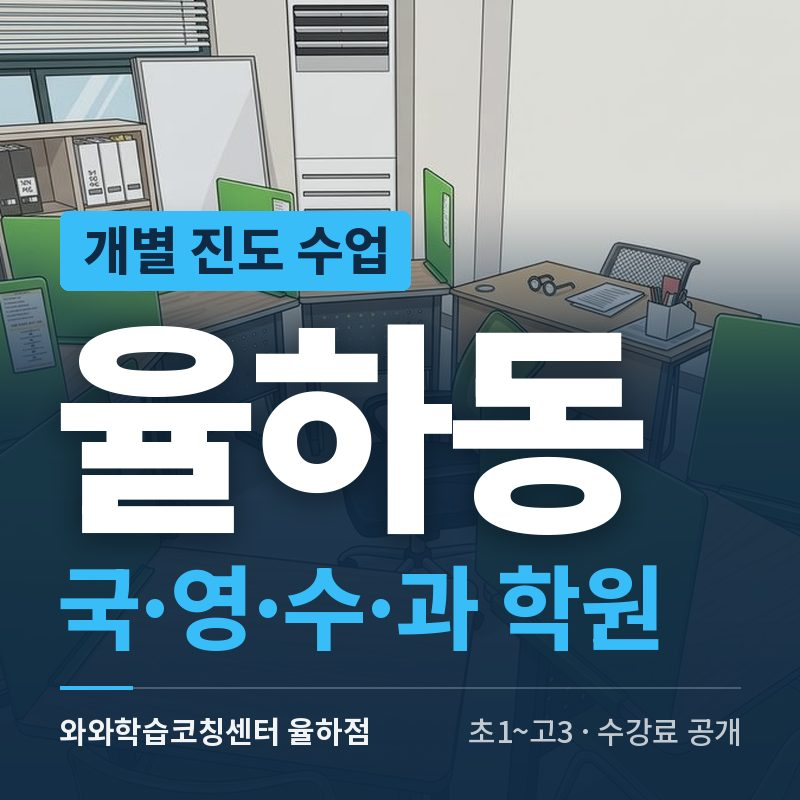
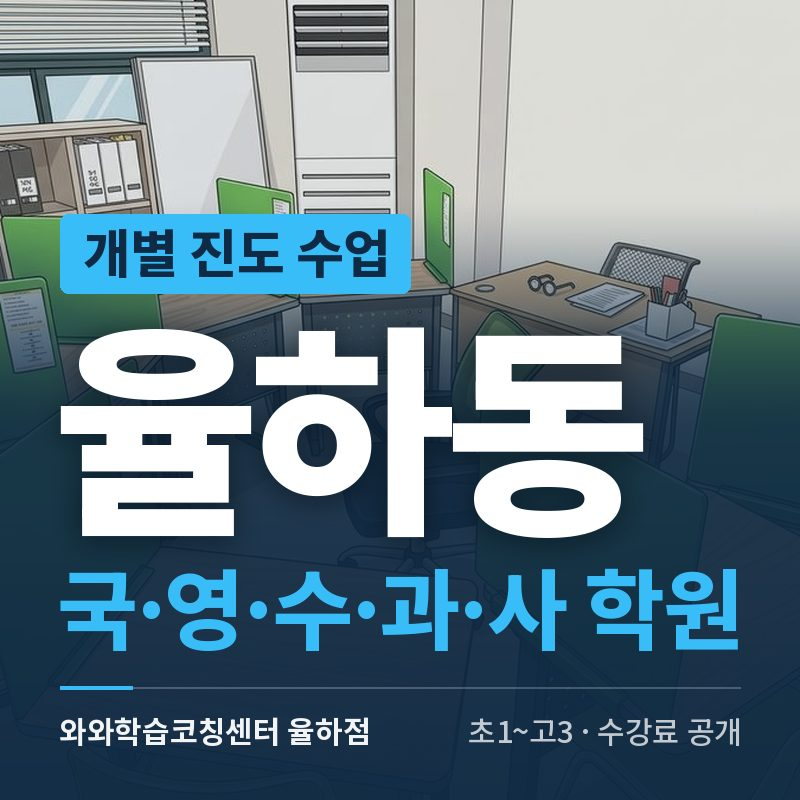
동 허브 17장 '수강 가능 과목' 줄을 기준본 지점 과목으로 맞춤 (11-10 점검 wawa-A-1)
10-27 반영 때 바뀐 지점의 허브만 고쳐 나머지 17장은 Init 때 값이 남아 있었다.
같은 페이지의 과목 바로가기·상담 폼 과목과 달랐고, 반여동(사회)·가경동(과학)·
성남동(국어)은 지점이 열지 않는 과목까지 적었다.

- scripts/hub_subjects_2026-11-10.cjs: 그 동 지점(기준본 wstudycenter.com
  data/branches.json) 과목 합집합으로 과목 줄 한 줄만 바꾼다. 제목·h1·설명문은
  그대로(10-02 '제목은 그대로'). 허브에 실린 지점과 기준본 같은 동 지점이
  다르면 건너뛴다(17장 모두 일치).
- 바뀐 17장만 page-updated data-iso·최종 업데이트와 sitemap lastmod 를 11-10 으로.
- 썸네일 시험 배너 과목은 '기준본 ∩ 과목 줄'이라 node _thumb_test.js plan 으로
  다시 봤고 시험군 3장(성사동·율하동·창곡동)이 늘어난 과목으로 바뀌어
  apply(alt)·배너 3장을 다시 그렸다(배정은 그대로, 같은 스크립트로 다른 배너를
  다시 그리면 바이트까지 같은 것 확인).

diff --git a/gyeonggi/seongnam/dong/창곡동/index.html b/gyeonggi/seongnam/dong/창곡동/index.html
@@ -148,7 +148,7 @@
         <div class="info-icon">📚</div>
         <div class="info-content">
           <div class="info-label">수강 가능 과목</div>
-          <div class="info-value">영어 · 수학 · 과학</div>
+          <div class="info-value">국어 · 영어 · 수학 · 과학</div>
         </div>
       </div>
       <div class="school-section"><div class="school-section-title">🏫 창곡동 인근 학교</div><div class="school-group"><span class="school-group-label elem">초등</span><span class="school-list">고운초, 송례초, 위례중앙초, 위례초, 위례푸른초</span></div><div class="school-group"><span class="school-group-label mid">중등</span><span class="school-list">송례중, 위례중, 위례중앙중, 위례한빛중</span></div><div class="school-group"><span class="school-group-label high">고등</span><span class="school-list">문현고, 복정고, 위례고, 위례한빛고</span></div></div>
@@ -214,7 +214,7 @@
   </table><div class="fee-legal"><span><b>위례창곡점</b> 위례창곡점와와학습코칭학원(성남교육지원청 등록 제6458호)</span><span>1회 수업 시간: 초등 90분, 중등 90분, 고등 90분</span><span><a class="fee-doc-link" href="https://drive.google.com/file/d/1ILLc1mkd9i-OS17T42-VCSh-QXRhYXNw/view?usp=sharing" target="_blank" rel="noopener" style="color:#0369A1;font-weight:700;text-decoration:none;">교습비 공시 자료</a> · <a href="../../wilyechanggog/#fee" style="color:#0369A1;font-weight:700;text-decoration:none;">위례창곡점 수강료 안내</a></span></div></div></section>
 
 <!-- 하단 CTA: 한 번 더 -->
-<!-- WAWA_ILLUST_START --><section style="max-width:960px;margin:0 auto;padding:8px 20px 26px;"><img src="https://wcoachingcenter.com/assets/banner/gyeonggi-seongnam-%EC%B0%BD%EA%B3%A1%EB%8F%99.jpg" alt="창곡동 영어·수학·과학 학원 와와학습코칭센터 위례점 개별 진도 수업 안내 (초3~고2 · 수강료 공개)" width="800" height="800" loading="lazy" style="width:100%;max-width:420px;border-radius:14px;display:block;margin:0 auto;"></section><!-- WAWA_ILLUST_END -->
+<!-- WAWA_ILLUST_START --><section style="max-width:960px;margin:0 auto;padding:8px 20px 26px;"><img src="https://wcoachingcenter.com/assets/banner/gyeonggi-seongnam-%EC%B0%BD%EA%B3%A1%EB%8F%99.jpg" alt="창곡동 국어·영어·수학·과학 학원 와와학습코칭센터 위례점 개별 진도 수업 안내 (초3~고2 · 수강료 공개)" width="800" height="800" loading="lazy" style="width:100%;max-width:420px;border-radius:14px;display:block;margin:0 auto;"></section><!-- WAWA_ILLUST_END -->
 <section style="background:linear-gradient(135deg,#0369A1,#075985);padding:40px 20px;text-align:center;color:#fff;">
   <h3 style="font-size:22px;font-weight:900;margin-bottom:10px;text-wrap:balance;word-break:keep-all;">창곡동에서 와와학습코칭센터를 만나보세요</h3>
   <p style="font-size:14px;opacity:0.9;margin-bottom:20px;text-wrap:balance;word-break:keep-all;">학습 진단부터 학교 시험 대비까지 무료 상담으로 안내해 드립니다.</p>
@@ -240,7 +240,7 @@
   <a href="/reviews/" style="color:rgba(255,255,255,0.85);font-weight:700;">⭐ 학생·학부모 후기</a> &nbsp;|&nbsp; <a href="tel:010-4864-5345" style="color:rgba(255,255,255,0.85);font-weight:700;">📞 전화 문의하기</a><br>
   <span style="font-size:11px;color:rgba(255,255,255,0.55);">광고전화는 정중히 사절합니다. &nbsp;|&nbsp; 그림 출처: 와와학습코칭센터, AI로 이미지 생성</span>
   <div class="footer-privacy" style="margin-top:6px;font-size:12px;"><a href="/privacy/" style="color:rgba(255,255,255,0.85);font-weight:700;">개인정보처리방침</a></div>
-  <div class="page-updated" data-iso="2026-09-02" style="font-size:11px;color:rgba(255,255,255,0.45);margin-top:8px;">📅 최종 업데이트: 2026.09.02</div>
+  <div class="page-updated" data-iso="2026-11-10" style="font-size:11px;color:rgba(255,255,255,0.45);margin-top:8px;">📅 최종 업데이트: 2026.11.10</div>
 </footer>
 
 <div class="phone-float" style="display:flex;flex-direction:column;gap:10px;align-items:flex-end;">

diff --git a/daegu/donggu/dong/율하동/index.html b/daegu/donggu/dong/율하동/index.html
@@ -125,7 +125,7 @@
         <div class="info-icon">📚</div>
         <div class="info-content">
           <div class="info-label">수강 가능 과목</div>
-          <div class="info-value">국어 · 영어 · 수학 · 과학</div>
+          <div class="info-value">국어 · 영어 · 수학 · 과학 · 사회</div>
         </div>
       </div>
       <div class="school-section"><div class="school-section-title">🏫 율하동 인근 학교</div><div class="school-group"><span class="school-group-label elem">초등</span><span class="school-list">숙천초, 안일초, 율금초, 율원초</span></div><div class="school-group"><span class="school-group-label mid">중등</span><span class="school-list">강동중, 동원중, 새론중, 신기중, 안심중, 율원중</span></div><div class="school-group"><span class="school-group-label high">고등</span><span class="school-list">강동고, 동부고, 정동고</span></div></div>
@@ -184,7 +184,7 @@
   </table><div class="fee-legal"><span><b>율하점</b> 율하점와와학습코칭학원(대구동부교육지원청 등록 제6183호)</span><span>1회 수업 시간: 초등 90분, 중등 90분, 고등 90분</span><span><a class="fee-doc-link" href="https://drive.google.com/file/d/1VsinCaHKPHAeKH7Ap5VRrhsW8WXs3BEA/view?usp=sharing" target="_blank" rel="noopener" style="color:#0369A1;font-weight:700;text-decoration:none;">교습비 공시 자료</a> · <a href="../../yulha/#fee" style="color:#0369A1;font-weight:700;text-decoration:none;">율하점 수강료 안내</a></span></div></div></section>
 
 <!-- 하단 CTA: 한 번 더 -->
-<!-- WAWA_ILLUST_START --><section style="max-width:960px;margin:0 auto;padding:8px 20px 26px;"><img src="https://wcoachingcenter.com/assets/banner/daegu-donggu-%EC%9C%A8%ED%95%98%EB%8F%99.jpg" alt="율하동 국어·영어·수학·과학 학원 와와학습코칭센터 율하점 개별 진도 수업 안내 (초1~고3 · 수강료 공개)" width="800" height="800" loading="lazy" style="width:100%;max-width:420px;border-radius:14px;display:block;margin:0 auto;"></section><!-- WAWA_ILLUST_END -->
+<!-- WAWA_ILLUST_START --><section style="max-width:960px;margin:0 auto;padding:8px 20px 26px;"><img src="https://wcoachingcenter.com/assets/banner/daegu-donggu-%EC%9C%A8%ED%95%98%EB%8F%99.jpg" alt="율하동 국어·영어·수학·과학·사회 학원 와와학습코칭센터 율하점 개별 진도 수업 안내 (초1~고3 · 수강료 공개)" width="800" height="800" loading="lazy" style="width:100%;max-width:420px;border-radius:14px;display:block;margin:0 auto;"></section><!-- WAWA_ILLUST_END -->
 <section style="background:linear-gradient(135deg,#0369A1,#075985);padding:40px 20px;text-align:center;color:#fff;">
   <h3 style="font-size:22px;font-weight:900;margin-bottom:10px;text-wrap:balance;word-break:keep-all;">율하동에서 와와학습코칭센터를 만나보세요</h3>
   <p style="font-size:14px;opacity:0.9;margin-bottom:20px;text-wrap:balance;word-break:keep-all;">학습 진단부터 학교 시험 대비까지 무료 상담으로 안내해 드립니다.</p>
@@ -206,7 +206,7 @@
   <a href="/reviews/" style="color:rgba(255,255,255,0.85);font-weight:700;">⭐ 학생·학부모 후기</a> &nbsp;|&nbsp; <a href="tel:010-4864-5345" style="color:rgba(255,255,255,0.85);font-weight:700;">📞 전화 문의하기</a><br>
   <span style="font-size:11px;color:rgba(255,255,255,0.55);">광고전화는 정중히 사절합니다. &nbsp;|&nbsp; 그림 출처: 와와학습코칭센터, AI로 이미지 생성</span>
   <div class="footer-privacy" style="margin-top:6px;font-size:12px;"><a href="/privacy/" style="color:rgba(255,255,255,0.85);font-weight:700;">개인정보처리방침</a></div>
-  <div class="page-updated" data-iso="2026-09-02" style="font-size:11px;color:rgba(255,255,255,0.45);margin-top:8px;">📅 최종 업데이트: 2026.09.02</div>
+  <div class="page-updated" data-iso="2026-11-10" style="font-size:11px;color:rgba(255,255,255,0.45);margin-top:8px;">📅 최종 업데이트: 2026.11.10</div>
 </footer>
 
 <div class="phone-float" style="display:flex;flex-direction:column;gap:10px;align-items:flex-end;">

diff --git a/gyeonggi/goyang/dong/성사동/index.html b/gyeonggi/goyang/dong/성사동/index.html
@@ -125,7 +125,7 @@
         <div class="info-icon">📚</div>
         <div class="info-content">
           <div class="info-label">수강 가능 과목</div>
-          <div class="info-value">국어 · 영어 · 수학</div>
+          <div class="info-value">국어 · 영어 · 수학 · 과학 · 사회</div>
         </div>
       </div>
       <div class="school-section"><div class="school-section-title">🏫 성사동 인근 학교</div><div class="school-group"><span class="school-group-label elem">초등</span><span class="school-list">성라초, 성사초</span></div><div class="school-group"><span class="school-group-label mid">중등</span><span class="school-list">화수중, 성사중, 원당중</span></div><div class="school-group"><span class="school-group-label high">고등</span><span class="school-list">성사고, 화수고</span></div></div>
@@ -184,7 +184,7 @@
   </table><div class="fee-legal"><span><b>원당점</b> 원당점와와학습코칭학원(고양교육지원청 등록 제5951호)</span><span>1회 수업 시간: 초등 90분, 중등 90분, 고등 90분</span><span><a class="fee-doc-link" href="https://drive.google.com/file/d/1Hc3P16SbBQdtyDuT-HNbAKMUmOrkkNjN/view?usp=sharing" target="_blank" rel="noopener" style="color:#0369A1;font-weight:700;text-decoration:none;">교습비 공시 자료</a> · <a href="../../wondang/#fee" style="color:#0369A1;font-weight:700;text-decoration:none;">원당점 수강료 안내</a></span></div></div></section>
 
 <!-- 하단 CTA: 한 번 더 -->
-<!-- WAWA_ILLUST_START --><section style="max-width:960px;margin:0 auto;padding:8px 20px 26px;"><img src="https://wcoachingcenter.com/assets/banner/gyeonggi-goyang-%EC%84%B1%EC%82%AC%EB%8F%99.jpg" alt="성사동 국어·영어·수학 학원 와와학습코칭센터 원당점 개별 진도 수업 안내 (초1~고3 · 수강료 공개)" width="800" height="800" loading="lazy" style="width:100%;max-width:420px;border-radius:14px;display:block;margin:0 auto;"></section><!-- WAWA_ILLUST_END -->
+<!-- WAWA_ILLUST_START --><section style="max-width:960px;margin:0 auto;padding:8px 20px 26px;"><img src="https://wcoachingcenter.com/assets/banner/gyeonggi-goyang-%EC%84%B1%EC%82%AC%EB%8F%99.jpg" alt="성사동 국어·영어·수학·과학·사회 학원 와와학습코칭센터 원당점 개별 진도 수업 안내 (초1~고3 · 수강료 공개)" width="800" height="800" loading="lazy" style="width:100%;max-width:420px;border-radius:14px;display:block;margin:0 auto;"></section><!-- WAWA_ILLUST_END -->
 <section style="background:linear-gradient(135deg,#0369A1,#075985);padding:40px 20px;text-align:center;color:#fff;">
   <h3 style="font-size:22px;font-weight:900;margin-bottom:10px;text-wrap:balance;word-break:keep-all;">성사동에서 와와학습코칭센터를 만나보세요</h3>
   <p style="font-size:14px;opacity:0.9;margin-bottom:20px;text-wrap:balance;word-break:keep-all;">학습 진단부터 학교 시험 대비까지 무료 상담으로 안내해 드립니다.</p>
@@ -213,7 +213,7 @@
   <a href="/reviews/" style="color:rgba(255,255,255,0.85);font-weight:700;">⭐ 학생·학부모 후기</a> &nbsp;|&nbsp; <a href="tel:010-4864-5345" style="color:rgba(255,255,255,0.85);font-weight:700;">📞 전화 문의하기</a><br>
   <span style="font-size:11px;color:rgba(255,255,255,0.55);">광고전화는 정중히 사절합니다. &nbsp;|&nbsp; 그림 출처: 와와학습코칭센터, AI로 이미지 생성</span>
   <div class="footer-privacy" style="margin-top:6px;font-size:12px;"><a href="/privacy/" style="color:rgba(255,255,255,0.85);font-weight:700;">개인정보처리방침</a></div>
-  <div class="page-updated" data-iso="2026-09-02" style="font-size:11px;color:rgba(255,255,255,0.45);margin-top:8px;">📅 최종 업데이트: 2026.09.02</div>
+  <div class="page-updated" data-iso="2026-11-10" style="font-size:11px;color:rgba(255,255,255,0.45);margin-top:8px;">📅 최종 업데이트: 2026.11.10</div>
 </footer>
 
 <div class="phone-float" style="display:flex;flex-direction:column;gap:10px;align-items:flex-end;">

diff --git a/daejeon/yuseong/dong/지족동/index.html b/daejeon/yuseong/dong/지족동/index.html
@@ -146,7 +146,7 @@
         <div class="info-icon">📚</div>
         <div class="info-content">
           <div class="info-label">수강 가능 과목</div>
-          <div class="info-value">국어 · 영어 · 수학</div>
+          <div class="info-value">국어 · 영어 · 수학 · 과학 · 사회</div>
         </div>
       </div>
       <div class="school-section"><div class="school-section-title">🏫 지족동 인근 학교</div><div class="school-group"><span class="school-group-label elem">초등</span><span class="school-list">노은초, 반석초, 상지초, 새미래초, 수정초, 지족초</span></div><div class="school-group"><span class="school-group-label mid">중등</span><span class="school-list">노은중, 새미래중, 외삼중, 지족중, 하기중</span></div><div class="school-group"><span class="school-group-label high">고등</span><span class="school-list">노은고, 반석고, 유성고, 유성여고, 지족고</span></div></div>
@@ -227,7 +227,7 @@
   <a href="/reviews/" style="color:rgba(255,255,255,0.85);font-weight:700;">⭐ 학생·학부모 후기</a> &nbsp;|&nbsp; <a href="tel:010-4864-5345" style="color:rgba(255,255,255,0.85);font-weight:700;">📞 전화 문의하기</a><br>
   <span style="font-size:11px;color:rgba(255,255,255,0.55);">광고전화는 정중히 사절합니다. &nbsp;|&nbsp; 그림 출처: 와와학습코칭센터, AI로 이미지 생성</span>
   <div class="footer-privacy" style="margin-top:6px;font-size:12px;"><a href="/privacy/" style="color:rgba(255,255,255,0.85);font-weight:700;">개인정보처리방침</a></div>
-  <div class="page-updated" data-iso="2026-09-02" style="font-size:11px;color:rgba(255,255,255,0.45);margin-top:8px;">📅 최종 업데이트: 2026.09.02</div>
+  <div class="page-updated" data-iso="2026-11-10" style="font-size:11px;color:rgba(255,255,255,0.45);margin-top:8px;">📅 최종 업데이트: 2026.11.10</div>
 </footer>
 
 <div class="phone-float" style="display:flex;flex-direction:column;gap:10px;align-items:flex-end;">

diff --git a/gyeonggi/bucheon/dong/중동/index.html b/gyeonggi/bucheon/dong/중동/index.html
@@ -171,7 +171,7 @@
         <div class="info-icon">📚</div>
         <div class="info-content">
           <div class="info-label">수강 가능 과목</div>
-          <div class="info-value">국어 · 영어 · 수학</div>
+          <div class="info-value">국어 · 영어 · 수학 · 과학</div>
         </div>
       </div>
       <div class="school-section"><div class="school-section-title">🏫 중동 인근 학교</div><div class="school-group"><span class="school-group-label elem">초등</span><span class="school-list">계남초, 부곡초, 부흥초, 심원초, 중흥초</span></div><div class="school-group"><span class="school-group-label mid">중등</span><span class="school-list">계남중, 부곡중, 부명중, 심원중, 중흥중</span></div><div class="school-group"><span class="school-group-label high">고등</span><span class="school-list">경기예고, 계남고, 심원고, 원미고, 중원고, 중흥고</span></div></div>
@@ -254,7 +254,7 @@
   <a href="/reviews/" style="color:rgba(255,255,255,0.85);font-weight:700;">⭐ 학생·학부모 후기</a> &nbsp;|&nbsp; <a href="tel:010-4864-5345" style="color:rgba(255,255,255,0.85);font-weight:700;">📞 전화 문의하기</a><br>
   <span style="font-size:11px;color:rgba(255,255,255,0.55);">광고전화는 정중히 사절합니다. &nbsp;|&nbsp; 그림 출처: 와와학습코칭센터, AI로 이미지 생성</span>
   <div class="footer-privacy" style="margin-top:6px;font-size:12px;"><a href="/privacy/" style="color:rgba(255,255,255,0.85);font-weight:700;">개인정보처리방침</a></div>
-  <div class="page-updated" data-iso="2026-09-02" style="font-size:11px;color:rgba(255,255,255,0.45);margin-top:8px;">📅 최종 업데이트: 2026.09.02</div>
+  <div class="page-updated" data-iso="2026-11-10" style="font-size:11px;color:rgba(255,255,255,0.45);margin-top:8px;">📅 최종 업데이트: 2026.11.10</div>
 </footer>
 
 <div class="phone-float" style="display:flex;flex-direction:column;gap:10px;align-items:flex-end;">

diff --git a/gyeonggi/namyangju/dong/다산동/index.html b/gyeonggi/namyangju/dong/다산동/index.html
@@ -192,7 +192,7 @@
         <div class="info-icon">📚</div>
         <div class="info-content">
           <div class="info-label">수강 가능 과목</div>
-          <div class="info-value">국어 · 영어 · 사회</div>
+          <div class="info-value">국어 · 영어 · 수학 · 과학 · 사회</div>
         </div>
       </div>
       <div class="school-section"><div class="school-section-title">🏫 다산동 인근 학교</div><div class="school-group"><span class="school-group-label elem">초등</span><span class="school-list">금교초, 다산초, 다산한강초, 도농초, 미금초</span></div><div class="school-group"><span class="school-group-label mid">중등</span><span class="school-list">가운중, 다산중, 다산한강중, 도농중, 동화중</span></div><div class="school-group"><span class="school-group-label high">고등</span><span class="school-list">가운고, 다산고, 도농고</span></div></div>
@@ -277,7 +277,7 @@
   <a href="/reviews/" style="color:rgba(255,255,255,0.85);font-weight:700;">⭐ 학생·학부모 후기</a> &nbsp;|&nbsp; <a href="tel:010-4864-5345" style="color:rgba(255,255,255,0.85);font-weight:700;">📞 전화 문의하기</a><br>
   <span style="font-size:11px;color:rgba(255,255,255,0.55);">광고전화는 정중히 사절합니다. &nbsp;|&nbsp; 그림 출처: 와와학습코칭센터, AI로 이미지 생성</span>
   <div class="footer-privacy" style="margin-top:6px;font-size:12px;"><a href="/privacy/" style="color:rgba(255,255,255,0.85);font-weight:700;">개인정보처리방침</a></div>
-  <div class="page-updated" data-iso="2026-09-02" style="font-size:11px;color:rgba(255,255,255,0.45);margin-top:8px;">📅 최종 업데이트: 2026.09.02</div>
+  <div class="page-updated" data-iso="2026-11-10" style="font-size:11px;color:rgba(255,255,255,0.45);margin-top:8px;">📅 최종 업데이트: 2026.11.10</div>
 </footer>
 
 <div class="phone-float" style="display:flex;flex-direction:column;gap:10px;align-items:flex-end;">

diff --git a/seoul/eunpyeong/dong/진관동/index.html b/seoul/eunpyeong/dong/진관동/index.html
@@ -171,7 +171,7 @@
         <div class="info-icon">📚</div>
         <div class="info-content">
           <div class="info-label">수강 가능 과목</div>
-          <div class="info-value">영어 · 과학 · 사회</div>
+          <div class="info-value">국어 · 영어 · 수학 · 과학 · 사회</div>
         </div>
       </div>
       <div class="school-section"><div class="school-section-title">🏫 진관동 인근 학교</div><div class="school-group"><span class="school-group-label elem">초등</span><span class="school-list">신도초, 은빛초, 은진초, 진관초</span></div><div class="school-group"><span class="school-group-label mid">중등</span><span class="school-list">신도중, 연천중, 진관중</span></div><div class="school-group"><span class="school-group-label high">고등</span><span class="school-list">대성고, 동명여고, 선일여고, 신도고, 진관고</span></div></div>
@@ -252,7 +252,7 @@
   <a href="/reviews/" style="color:rgba(255,255,255,0.85);font-weight:700;">⭐ 학생·학부모 후기</a> &nbsp;|&nbsp; <a href="tel:010-4864-5345" style="color:rgba(255,255,255,0.85);font-weight:700;">📞 전화 문의하기</a><br>
   <span style="font-size:11px;color:rgba(255,255,255,0.55);">광고전화는 정중히 사절합니다. &nbsp;|&nbsp; 그림 출처: 와와학습코칭센터, AI로 이미지 생성</span>
   <div class="footer-privacy" style="margin-top:6px;font-size:12px;"><a href="/privacy/" style="color:rgba(255,255,255,0.85);font-weight:700;">개인정보처리방침</a></div>
-  <div class="page-updated" data-iso="2026-09-02" style="font-size:11px;color:rgba(255,255,255,0.45);margin-top:8px;">📅 최종 업데이트: 2026.09.02</div>
+  <div class="page-updated" data-iso="2026-11-10" style="font-size:11px;color:rgba(255,255,255,0.45);margin-top:8px;">📅 최종 업데이트: 2026.11.10</div>
 </footer>
 
 <div class="phone-float" style="display:flex;flex-direction:column;gap:10px;align-items:flex-end;">

diff --git a/gyeonggi/seongnam/dong/성남동/index.html b/gyeonggi/seongnam/dong/성남동/index.html
@@ -123,7 +123,7 @@
         <div class="info-icon">📚</div>
         <div class="info-content">
           <div class="info-label">수강 가능 과목</div>
-          <div class="info-value">국어 · 영어 · 수학</div>
+          <div class="info-value">영어 · 수학</div>
         </div>
       </div>
       <div class="school-section"><div class="school-section-title">🏫 성남동 인근 학교</div><div class="school-group"><span class="school-group-label elem">초등</span><span class="school-list">성남중앙초</span></div><div class="school-group"><span class="school-group-label mid">중등</span><span class="school-list">동광중, 성남중, 성일중, 풍생중</span></div><div class="school-group"><span class="school-group-label high">고등</span><span class="school-list">동광고, 복정고, 성남고, 성남여고, 성일고, 숭신여고, 효성고</span></div></div>
@@ -208,7 +208,7 @@
   <a href="/reviews/" style="color:rgba(255,255,255,0.85);font-weight:700;">⭐ 학생·학부모 후기</a> &nbsp;|&nbsp; <a href="tel:010-4864-5345" style="color:rgba(255,255,255,0.85);font-weight:700;">📞 전화 문의하기</a><br>
   <span style="font-size:11px;color:rgba(255,255,255,0.55);">광고전화는 정중히 사절합니다. &nbsp;|&nbsp; 그림 출처: 와와학습코칭센터, AI로 이미지 생성</span>
   <div class="footer-privacy" style="margin-top:6px;font-size:12px;"><a href="/privacy/" style="color:rgba(255,255,255,0.85);font-weight:700;">개인정보처리방침</a></div>
-  <div class="page-updated" data-iso="2026-09-02" style="font-size:11px;color:rgba(255,255,255,0.45);margin-top:8px;">📅 최종 업데이트: 2026.09.02</div>
+  <div class="page-updated" data-iso="2026-11-10" style="font-size:11px;color:rgba(255,255,255,0.45);margin-top:8px;">📅 최종 업데이트: 2026.11.10</div>
 </footer>
 
 <div class="phone-float" style="display:flex;flex-direction:column;gap:10px;align-items:flex-end;">

diff --git a/gyeonggi/paju/dong/동패동/index.html b/gyeonggi/paju/dong/동패동/index.html
@@ -169,7 +169,7 @@
         <div class="info-icon">📚</div>
         <div class="info-content">
           <div class="info-label">수강 가능 과목</div>
-          <div class="info-value">영어 · 수학 · 과학</div>
+          <div class="info-value">국어 · 영어 · 수학 · 과학 · 사회</div>
         </div>
       </div>
       <div class="school-section"><div class="school-section-title">🏫 동패동 인근 학교</div><div class="school-group"><span class="school-group-label elem">초등</span><span class="school-list">두일초, 석곶초, 청석초, 초롱초, 한가람초</span></div><div class="school-group"><span class="school-group-label mid">중등</span><span class="school-list">교하중, 두일중, 심학중</span></div><div class="school-group"><span class="school-group-label high">고등</span><span class="school-list">교하고, 심학고</span></div></div>
@@ -252,7 +252,7 @@
   <a href="/reviews/" style="color:rgba(255,255,255,0.85);font-weight:700;">⭐ 학생·학부모 후기</a> &nbsp;|&nbsp; <a href="tel:010-4864-5345" style="color:rgba(255,255,255,0.85);font-weight:700;">📞 전화 문의하기</a><br>
   <span style="font-size:11px;color:rgba(255,255,255,0.55);">광고전화는 정중히 사절합니다. &nbsp;|&nbsp; 그림 출처: 와와학습코칭센터, AI로 이미지 생성</span>
   <div class="footer-privacy" style="margin-top:6px;font-size:12px;"><a href="/privacy/" style="color:rgba(255,255,255,0.85);font-weight:700;">개인정보처리방침</a></div>
-  <div class="page-updated" data-iso="2026-09-02" style="font-size:11px;color:rgba(255,255,255,0.45);margin-top:8px;">📅 최종 업데이트: 2026.09.02</div>
+  <div class="page-updated" data-iso="2026-11-10" style="font-size:11px;color:rgba(255,255,255,0.45);margin-top:8px;">📅 최종 업데이트: 2026.11.10</div>
 </footer>
 
 <div class="phone-float" style="display:flex;flex-direction:column;gap:10px;align-items:flex-end;">

diff --git a/chungbuk/cheongju/dong/가경동/index.html b/chungbuk/cheongju/dong/가경동/index.html
@@ -123,7 +123,7 @@
         <div class="info-icon">📚</div>
         <div class="info-content">
           <div class="info-label">수강 가능 과목</div>
-          <div class="info-value">국어 · 영어 · 수학 · 과학 · 사회</div>
+          <div class="info-value">국어 · 영어 · 수학 · 사회</div>
         </div>
       </div>
       <div class="school-section"><div class="school-section-title">🏫 가경동 인근 학교</div><div class="school-group"><span class="school-group-label elem">초등</span><span class="school-list">서경초, 서현초</span></div><div class="school-group"><span class="school-group-label mid">중등</span><span class="school-list">경덕중, 서현중</span></div><div class="school-group"><span class="school-group-label high">고등</span><span class="school-list">사대부고, 서원고, 청주외고</span></div></div>
@@ -206,7 +206,7 @@
   <a href="/reviews/" style="color:rgba(255,255,255,0.85);font-weight:700;">⭐ 학생·학부모 후기</a> &nbsp;|&nbsp; <a href="tel:010-4864-5345" style="color:rgba(255,255,255,0.85);font-weight:700;">📞 전화 문의하기</a><br>
   <span style="font-size:11px;color:rgba(255,255,255,0.55);">광고전화는 정중히 사절합니다. &nbsp;|&nbsp; 그림 출처: 와와학습코칭센터, AI로 이미지 생성</span>
   <div class="footer-privacy" style="margin-top:6px;font-size:12px;"><a href="/privacy/" style="color:rgba(255,255,255,0.85);font-weight:700;">개인정보처리방침</a></div>
-  <div class="page-updated" data-iso="2026-09-02" style="font-size:11px;color:rgba(255,255,255,0.45);margin-top:8px;">📅 최종 업데이트: 2026.09.02</div>
+  <div class="page-updated" data-iso="2026-11-10" style="font-size:11px;color:rgba(255,255,255,0.45);margin-top:8px;">📅 최종 업데이트: 2026.11.10</div>
 </footer>
 
 <div class="phone-float" style="display:flex;flex-direction:column;gap:10px;align-items:flex-end;">

diff --git a/daejeon/seogu/dong/둔산동/index.html b/daejeon/seogu/dong/둔산동/index.html
@@ -146,7 +146,7 @@
         <div class="info-icon">📚</div>
         <div class="info-content">
           <div class="info-label">수강 가능 과목</div>
-          <div class="info-value">국어 · 영어 · 사회</div>
+          <div class="info-value">국어 · 영어 · 수학 · 과학 · 사회</div>
         </div>
       </div>
       <div class="school-section"><div class="school-section-title">🏫 둔산동 인근 학교</div><div class="school-group"><span class="school-group-label elem">초등</span><span class="school-list">문정초, 탄방초, 한밭초</span></div><div class="school-group"><span class="school-group-label mid">중등</span><span class="school-list">문정중, 삼천중, 탄방중</span></div><div class="school-group"><span class="school-group-label high">고등</span><span class="school-list">둔산여고, 충남고</span></div></div>
@@ -228,7 +228,7 @@
   <a href="/reviews/" style="color:rgba(255,255,255,0.85);font-weight:700;">⭐ 학생·학부모 후기</a> &nbsp;|&nbsp; <a href="tel:010-4864-5345" style="color:rgba(255,255,255,0.85);font-weight:700;">📞 전화 문의하기</a><br>
   <span style="font-size:11px;color:rgba(255,255,255,0.55);">광고전화는 정중히 사절합니다. &nbsp;|&nbsp; 그림 출처: 와와학습코칭센터, AI로 이미지 생성</span>
   <div class="footer-privacy" style="margin-top:6px;font-size:12px;"><a href="/privacy/" style="color:rgba(255,255,255,0.85);font-weight:700;">개인정보처리방침</a></div>
-  <div class="page-updated" data-iso="2026-09-02" style="font-size:11px;color:rgba(255,255,255,0.45);margin-top:8px;">📅 최종 업데이트: 2026.09.02</div>
+  <div class="page-updated" data-iso="2026-11-10" style="font-size:11px;color:rgba(255,255,255,0.45);margin-top:8px;">📅 최종 업데이트: 2026.11.10</div>
 </footer>
 
 <div class="phone-float" style="display:flex;flex-direction:column;gap:10px;align-items:flex-end;">

diff --git a/busan/haeundae/dong/반여동/index.html b/busan/haeundae/dong/반여동/index.html
@@ -125,7 +125,7 @@
         <div class="info-icon">📚</div>
         <div class="info-content">
           <div class="info-label">수강 가능 과목</div>
-          <div class="info-value">국어 · 영어 · 수학 · 과학 · 사회</div>
+          <div class="info-value">국어 · 영어 · 수학 · 과학</div>
         </div>
       </div>
       <div class="school-section"><div class="school-section-title">🏫 반여동 인근 학교</div><div class="school-group"><span class="school-group-label elem">초등</span><span class="school-list">무정초, 인지초, 장산초</span></div><div class="school-group"><span class="school-group-label mid">중등</span><span class="school-list">인지중, 장산중</span></div><div class="school-group"><span class="school-group-label high">고등</span><span class="school-list">반여고</span></div></div>
@@ -206,7 +206,7 @@
   <a href="/reviews/" style="color:rgba(255,255,255,0.85);font-weight:700;">⭐ 학생·학부모 후기</a> &nbsp;|&nbsp; <a href="tel:010-4864-5345" style="color:rgba(255,255,255,0.85);font-weight:700;">📞 전화 문의하기</a><br>
   <span style="font-size:11px;color:rgba(255,255,255,0.55);">광고전화는 정중히 사절합니다. &nbsp;|&nbsp; 그림 출처: 와와학습코칭센터, AI로 이미지 생성</span>
   <div class="footer-privacy" style="margin-top:6px;font-size:12px;"><a href="/privacy/" style="color:rgba(255,255,255,0.85);font-weight:700;">개인정보처리방침</a></div>
-  <div class="page-updated" data-iso="2026-09-02" style="font-size:11px;color:rgba(255,255,255,0.45);margin-top:8px;">📅 최종 업데이트: 2026.09.02</div>
+  <div class="page-updated" data-iso="2026-11-10" style="font-size:11px;color:rgba(255,255,255,0.45);margin-top:8px;">📅 최종 업데이트: 2026.11.10</div>
 </footer>
 
 <div class="phone-float" style="display:flex;flex-direction:column;gap:10px;align-items:flex-end;">
